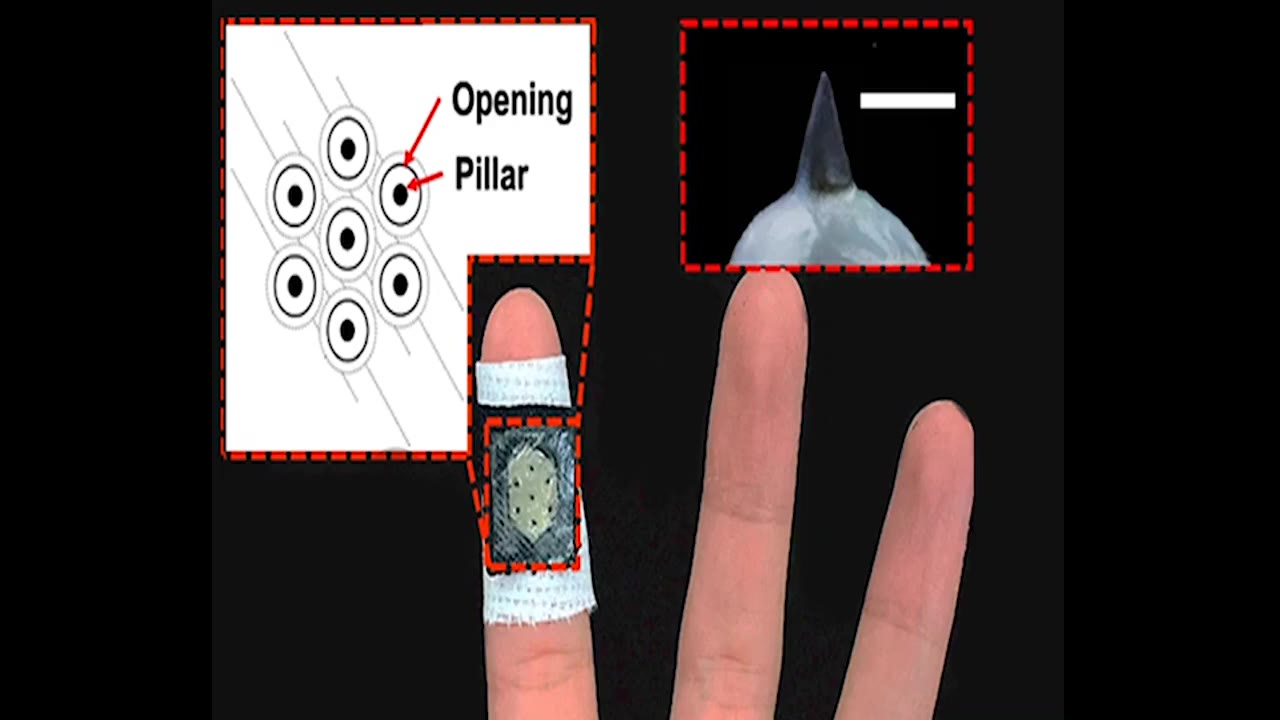
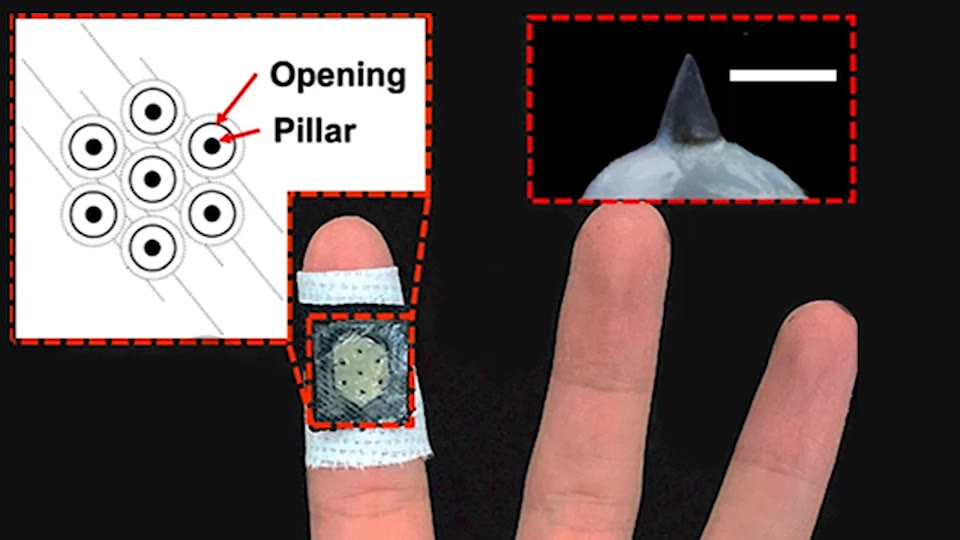
Fix Skin-Integrated SAR; full-cover poster overlay to prevent WeChat X5 flash

diff --git a/src/styles/global.css b/src/styles/global.css
@@ -426,24 +426,35 @@ p { margin: 0 0 1em; }
   object-fit: cover;
 }
 
-/* .cn-only: click-to-play overlay injected by Base.astro script. */
+/* .cn-only: click-to-play overlay injected by Base.astro script.
+   Covers the entire video area with the poster as background so the
+   poster→video handoff has no visible gap (esp. on WeChat X5). */
 .video-play-overlay {
   position: absolute;
-  top: 50%;
-  left: 50%;
-  transform: translate(-50%, -50%);
-  width: 64px;
-  height: 64px;
+  inset: 0;
+  width: 100%;
+  height: 100%;
+  display: flex;
+  align-items: center;
+  justify-content: center;
   padding: 0;
   border: 0;
-  background: transparent;
+  background-color: #f5f5f5;
+  background-size: cover;
+  background-position: center;
+  background-repeat: no-repeat;
   cursor: pointer;
   opacity: 1;
-  transition: opacity 0.25s ease, transform var(--transition);
+  transition: opacity 0.35s ease;
 }
-.video-play-overlay:hover { transform: translate(-50%, -50%) scale(1.08); }
-.video-play-overlay.is-hidden { opacity: 0; }
-.video-play-overlay svg { width: 100%; height: 100%; display: block; }
+.video-play-overlay svg {
+  width: 64px;
+  height: 64px;
+  display: block;
+  transition: transform var(--transition);
+}
+.video-play-overlay:hover svg { transform: scale(1.08); }
+.video-play-overlay.is-hidden { opacity: 0; pointer-events: none; }
 
 .entry-title {
   font-family: var(--font);